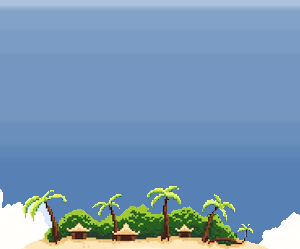
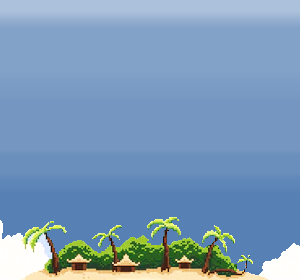
some chages to the tiles

diff --git a/Platformer3.py b/Platformer3.py
@@ -1,20 +1,14 @@
 import pygame, sys, os
 from random import choice
-
-
-clock = pygame.time.Clock()
-
 from pygame.locals import *
-pygame.init() # initiates pygame
 
+
+pygame.init()
+clock = pygame.time.Clock()
 pygame.display.set_caption('Pygame Platformer')
-
 WINDOW_SIZE = (600,800)
-
-screen = pygame.display.set_mode(WINDOW_SIZE,0,32) # initiate the window
-
+screen = pygame.display.set_mode(WINDOW_SIZE,0,32) 
 display = pygame.Surface((300, 400))
-# display2 = pygame.Surface((300, 400))
 
 moving_right = False
 moving_left = False
@@ -26,32 +20,28 @@ true_scroll = [0,0]
 def load_map():
     
     d = [
-        "110011",
-        "11010101"
-        "010111",
-        "011011",
-        "010111",
-        "110111",
-        "000111",
-        "111011",
-        "010000"
-        "110101",
-        "011001",
-        "000000",
-        "000000",
-        "000000",
-        "11111111111111111111111111"
-        "000000",
-        "110100"]
+        "1100",
+        "0101"
+        "0101",
+        "0110",
+        "0101",
+        "0001",
+        "1101",
+        "0001",
+        "1110",
+        "0100"
+        "1101",
+        "0110",
+        "0000",
+        "0000",
+        "0000",
+        "1101",
+        "0000",
+        "1101"]
+    data = [choice(d) + choice(d) + choice(d) for x in range(30)]
+    data.append("11111111111111111111")
+    return data
 
-
-    data = [choice(d)*2 for x in range(20)]
-
-
-    game_map = []
-    for row in data:
-        game_map.append(list(row))
-    return game_map
 
 global animation_frames
 animation_frames = {}
@@ -176,8 +166,9 @@ while True: # game loop
 
     #                 --------- BACKGROUND --------
 
-    display.blit(mount, (0, 30))
-    display.blit(sea, (0, 150))
+    display.blits(blit_sequence=(
+        (mount, (0, 0)),
+        (sea, (0, 120))))
     # for background_object in background_objects:
     #     obj_rect = pygame.Rect(
     #         background_object[1][0] - scroll[0] * background_object[0],
